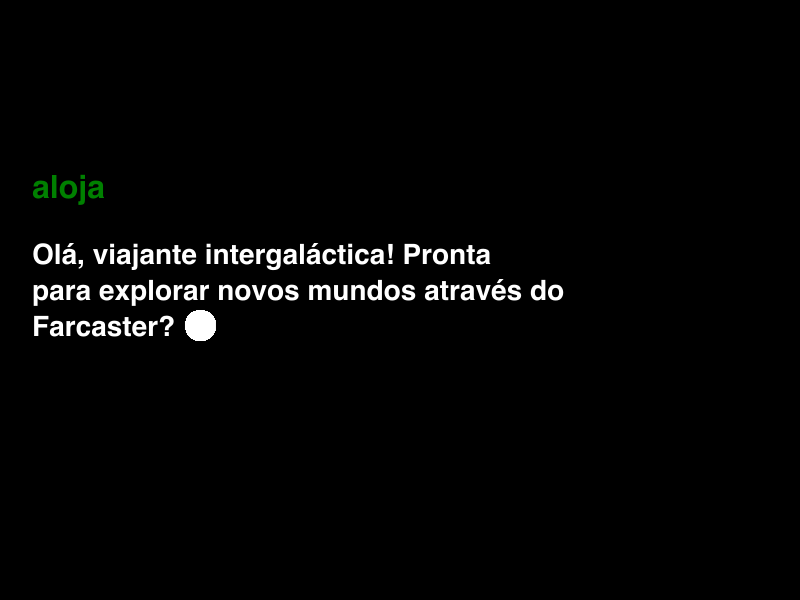
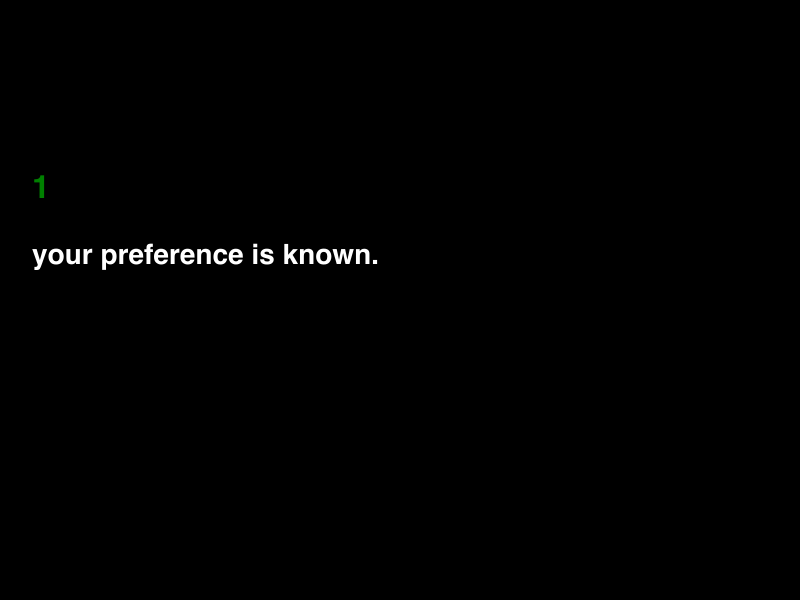
aloja

Changed region(s): [[0.0312, 0.39, 0.7188, 0.57], [0.0312, 0.3, 0.1562, 0.33]]

diff --git a/routes/farhack/index.js b/routes/farhack/index.js
@@ -244,6 +244,31 @@ router.post("/second-frame", async (req, res) => {
 
     if ([1, 2, 3].includes(req.body.untrustedData.buttonIndex)) {
       imageCopy = `your preference is known.`;
+      if (Number(req.body.untrustedData.buttonIndex) == 1) {
+        console.log("replying to this user right now");
+        const responseFromReplying = await replyToThisUserRightNow(
+          req.body.untrustedData.fid
+        );
+        if (responseFromReplying) {
+          let thisHeader = `your wishes are my commands.`;
+          imageCopy = `check your notifications`;
+          return res.status(200).send(`
+        <!DOCTYPE html>
+        <html>
+        <head>
+          <title>${botName}</title>
+          <meta property="og:title" content="anky mint">
+          <meta property="og:image" content=${fullUrl}/farhack/bot-image?text=}>
+          <meta name="fc:frame" content="vNext">
+          <meta name="fc:frame:image" content=${fullUrl}/farhack/bot-image?text=${encodeURIComponent(
+            imageCopy
+          )}&userPrompt=${encodeURIComponent(thisHeader)}>
+          <meta name="fc:frame:post_url" content="${fullUrl}/farhack/second-frame" />
+          </head>
+        </html>
+          `);
+        }
+      }
       return res.status(200).send(`
         <!DOCTYPE html>
         <html>
@@ -284,6 +309,14 @@ router.post("/second-frame", async (req, res) => {
     console.log("there was an error here", error);
   }
 });
+
+///////////// BOT ON A FRAME  ////////////////////////
+
+///////////// BOT ON A FRAME  ////////////////////////
+
+///////////// BOT ON A FRAME  ////////////////////////
+
+///////////// BOT ON A FRAME  ////////////////////////
 
 ///////////// BOT ON A FRAME  ////////////////////////
 
@@ -495,20 +528,87 @@ function delay(ms) {
   return new Promise((resolve) => setTimeout(resolve, ms));
 }
 
-async function getUserGroup() {
+// async function getUserGroup() {
+//   try {
+//     console.log("inside the get user group function");
+//     for (let i = 1; i < 20000; i++) {
+//       await queryUserDataFromNeynar(i);
+//       await delay(300); // Wait for 300 ms before the next iteration
+//     }
+//     console.log("FINISHED");
+//   } catch (error) {
+//     console.log("EEEEERRROR", error);
+//   }
+// }
+
+// getUserGroup();
+
+async function replyToThisUserRightNow(fid) {
   try {
-    console.log("inside the get user group function");
-    for (let i = 1; i < 20000; i++) {
-      await queryUserDataFromNeynar(i);
-      await delay(300); // Wait for 300 ms before the next iteration
+    // find random cast from this user on the last 24 hours, or 48, or 72
+    const randomCastFromThisUser = await getRandomCastFromUser(fid);
+
+    let castOptions = {
+      text: "weeeena bruno ctm",
+      embeds: [],
+      parent: randomCastFromThisUser.hash,
+      signer_uuid: process.env.NEYNAR_ANKY_SIGNER,
+    };
+    console.log("the cast options are: ", castOptions);
+
+    try {
+      const response = await axios.post(
+        "https://api.neynar.com/v2/farcaster/cast",
+        castOptions,
+        {
+          headers: {
+            api_key: process.env.NEYNAR_API_KEY,
+          },
+        }
+      );
+      console.log("THE RESPONSE AFTER SENDING THE API CALL IS: ", response);
+      // ADD HERE THIS
+      return;
+      const prismaResponse = await prisma.castWrapper.create({
+        data: {
+          time: time,
+          cid: cid,
+          manaEarned: manaEarned,
+          castHash: response.data.cast.hash,
+          castAuthor: response.data.cast.author.username,
+        },
+      });
+
+      res.json({ cast: response.data.cast });
+    } catch (error) {
+      console.error(error);
+      return { success: false };
     }
-    console.log("FINISHED");
+    return { success: true };
   } catch (error) {
-    console.log("EEEEERRROR", error);
+    console.log("there was an error here", error);
+    return { success: false };
   }
 }
 
-getUserGroup();
+async function getRandomCastFromUser(fid) {
+  try {
+    const response = await axios.get(
+      `https://api.neynar.com/v2/farcaster/feed?feed_type=filter&filter_type=fids&fids=${fid}&limit=88`,
+      {
+        headers: {
+          api_key: process.env.NEYNAR_API_KEY,
+        },
+      }
+    );
+    const lastTenCasts = response.data.casts;
+    const randomCast =
+      lastTenCasts[Math.floor(lastTenCasts.length * Math.random())];
+    return randomCast;
+  } catch (error) {}
+}
+
+getRandomCastFromUser(16098);
 
 async function queryUserDataFromNeynar(fid) {
   fid = parseInt(fid, 10); // Ensure fid is an integer
